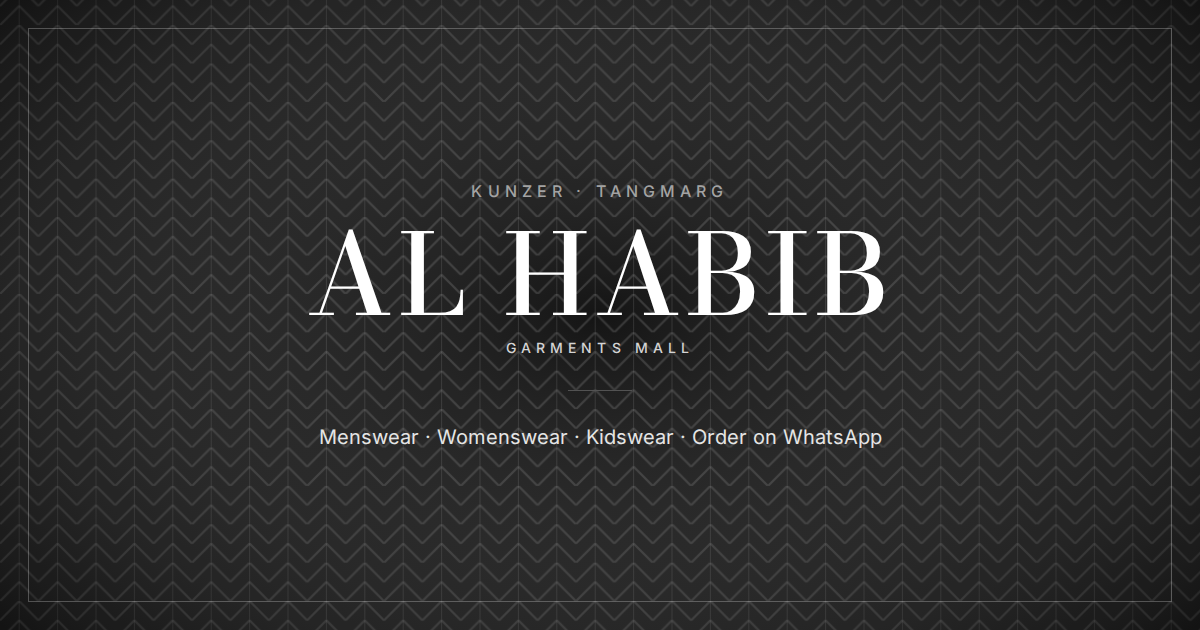
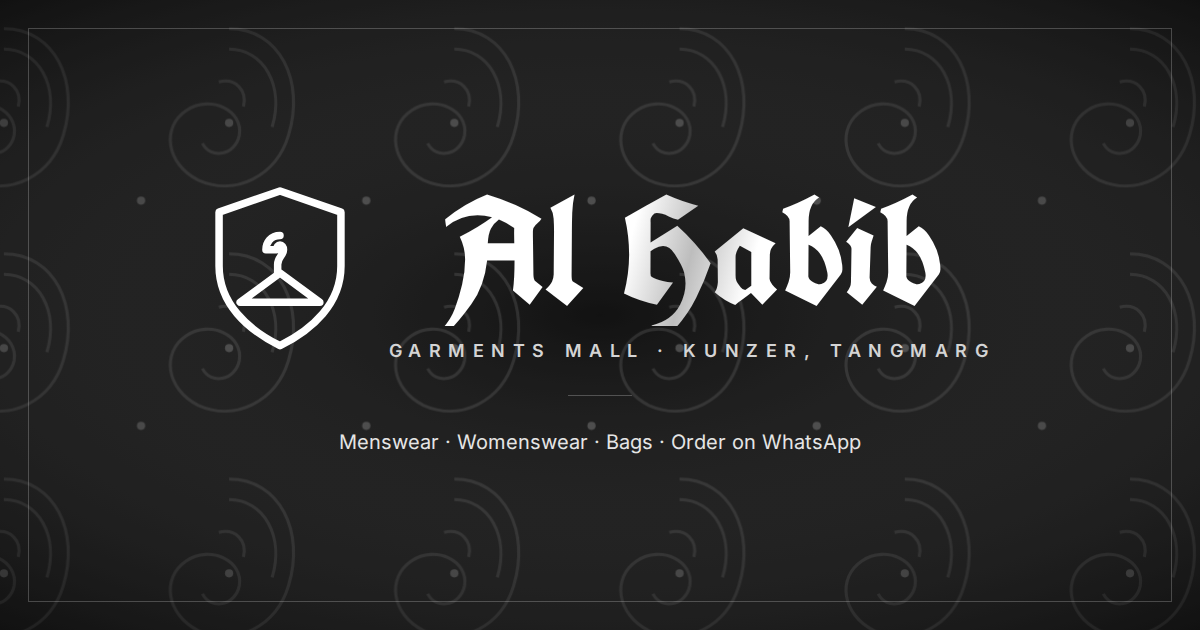
Brand: shield-and-hanger emblem with a blackletter Al Habib wordmark
Fraktur wordmark (UnifrakturCook) beside a monochrome shield-and-hanger
emblem, with the silver sheen capped so letters never wash out. Footer,
preloader, admin sidebar, favicon, touch icon and share image follow.

Claude-Session: https://claude.ai/code/session_013LEDe4nKw58QeEAj4Zvfg2

diff --git a/src/components/store/Logo.jsx b/src/components/store/Logo.jsx
@@ -1,13 +1,18 @@
 import React from "react";
 import { Link } from "react-router-dom";
+import BrandMark from "./BrandMark";
 
-// Brand wordmark: bold Bodoni "AL HABIB" over a tracked "GARMENTS MALL". `inverse` for dark surfaces.
-export default function Logo({ className = "", inverse = false, compact = false, to = "/" }) {
+// Brand lockup: shield-and-hanger emblem, blackletter "Al Habib" with a slow silver sheen,
+// and a tracked "GARMENTS MALL". `inverse` for dark surfaces, `compact` for tight spots.
+export default function Logo({ className = "", inverse = false, compact = false, to = "/", mark = true }) {
   const subCls = inverse ? "text-neutral-400" : "text-neutral-500";
   return (
-    <Link to={to} className={`inline-flex flex-col leading-none ${inverse ? "text-paper" : "text-ink"} ${className}`} aria-label="Al Habib Garments Mall, home">
-      <span className={`wordmark-shine font-display font-bold tracking-[0.07em] ${inverse ? "wordmark-shine-inverse" : ""} ${compact ? "text-2xl" : "text-[28px] sm:text-[34px] lg:text-[42px]"}`}>AL HABIB</span>
-      <span className={`mt-1 font-semibold uppercase ${compact ? "text-[8px] tracking-[0.3em]" : "text-[9px] tracking-[0.36em] sm:text-[10px] lg:mt-1.5 lg:text-[11px]"} ${subCls}`}>Garments Mall</span>
+    <Link to={to} className={`inline-flex items-center gap-3 leading-none sm:gap-3.5 ${inverse ? "text-paper" : "text-ink"} ${className}`} aria-label="Al Habib Garments Mall, home">
+      {mark && <BrandMark className={compact ? "h-8 w-8" : "h-10 w-10 sm:h-12 sm:w-12 lg:h-16 lg:w-16"} />}
+      <span className="flex flex-col">
+        <span className={`wordmark-shine font-brand font-bold tracking-[0.01em] ${inverse ? "wordmark-shine-inverse" : ""} ${compact ? "text-[26px]" : "text-[30px] sm:text-[36px] lg:text-[50px]"}`}>Al Habib</span>
+        <span className={`font-semibold uppercase ${compact ? "mt-0.5 text-[8px] tracking-[0.3em]" : "mt-1 text-[9px] tracking-[0.36em] sm:text-[10px] lg:text-[11px]"} ${subCls}`}>Garments Mall</span>
+      </span>
     </Link>
   );
 }

diff --git a/src/components/admin/AdminLayout.jsx b/src/components/admin/AdminLayout.jsx
@@ -41,7 +41,7 @@ export default function AdminLayout() {
       <aside className="hidden border-r border-neutral-800 lg:flex lg:min-h-screen lg:flex-col lg:sticky lg:top-0 lg:h-screen">
         <div className="px-6 py-6">
           <Link to="/admin/dashboard" className="block leading-none">
-            <span className="font-display text-xl tracking-[0.04em]">AL HABIB</span>
+            <span className="font-brand text-2xl">Al Habib</span>
             <span className="mt-1 block text-[9px] font-medium uppercase tracking-[0.32em] text-neutral-500">Admin</span>
           </Link>
         </div>
@@ -75,7 +75,7 @@ export default function AdminLayout() {
             <button type="button" className="absolute inset-0 bg-black/60" aria-label="Close" onClick={() => setOpen(false)} />
             <div className="absolute left-0 top-0 flex h-full w-72 flex-col bg-ink py-4">
               <div className="flex items-center justify-between px-6 pb-4">
-                <span className="font-display text-lg tracking-[0.04em]">AL HABIB</span>
+                <span className="font-brand text-xl">Al Habib</span>
                 <button type="button" onClick={() => setOpen(false)} className="p-1" aria-label="Close">
                   <X className="h-5 w-5" />
                 </button>

diff --git a/src/components/store/Preloader.jsx b/src/components/store/Preloader.jsx
@@ -30,8 +30,8 @@ export default function Preloader() {
       {show && (
         <motion.div className="fixed inset-0 z-[100] flex items-center justify-center bg-ink text-paper" initial={{ opacity: 1 }} exit={{ opacity: 0 }} transition={{ duration: 0.5, ease: "easeInOut" }} aria-hidden="true">
           <div className="overflow-hidden text-center">
-            <motion.p className="font-display text-4xl tracking-[0.06em] sm:text-5xl" initial={{ y: "110%" }} animate={{ y: 0 }} transition={{ duration: 0.7, ease: [0.22, 1, 0.36, 1] }}>
-              AL HABIB
+            <motion.p className="font-brand text-5xl sm:text-6xl" initial={{ y: "110%" }} animate={{ y: 0 }} transition={{ duration: 0.7, ease: [0.22, 1, 0.36, 1] }}>
+              Al Habib
             </motion.p>
             <motion.p className="mt-2 text-[10px] font-medium uppercase tracking-[0.4em] text-neutral-400" initial={{ opacity: 0 }} animate={{ opacity: 1 }} transition={{ delay: 0.4, duration: 0.5 }}>
               Garments Mall

diff --git a/src/components/store/Footer.jsx b/src/components/store/Footer.jsx
@@ -4,6 +4,7 @@ import { MapPin, Clock } from "lucide-react";
 import { InstagramIcon, FacebookIcon } from "../ui/SocialIcons";
 import { useShop } from "../../context/ShopContext";
 import WhatsAppIcon from "../ui/WhatsAppIcon";
+import Logo from "./Logo";
 import { waLink } from "../../lib/whatsapp";
 
 export default function Footer() {
@@ -14,8 +15,7 @@ export default function Footer() {
     <footer className="mt-20 bg-ink text-paper">
       <div className="container grid gap-12 py-16 md:grid-cols-12">
         <div className="md:col-span-5">
-          <p className="font-display text-3xl tracking-[0.04em]">AL HABIB</p>
-          <p className="mt-1 text-[10px] font-medium uppercase tracking-[0.32em] text-neutral-400">Garments Mall</p>
+          <Logo inverse />
           <p className="mt-6 max-w-sm text-sm leading-relaxed text-neutral-400">{settings.about?.split(". ").slice(0, 2).join(". ")}.</p>
           <div className="mt-6 flex items-center gap-4">
             {ig && (

diff --git a/src/components/store/BrandMark.jsx b/src/components/store/BrandMark.jsx
@@ -1,0 +1,12 @@
+import React from "react";
+
+// Shield-and-hanger emblem. Inherits colour from `currentColor`.
+export default function BrandMark({ className = "h-10 w-10" }) {
+  return (
+    <svg viewBox="0 0 64 72" className={className} fill="none" stroke="currentColor" strokeWidth="3.2" strokeLinejoin="round" strokeLinecap="round" aria-hidden="true">
+      <path d="M32 3 L58 12 V35 C58 51 46 62 32 69 C18 62 6 51 6 35 V12 Z" />
+      <path d="M32 22 c-4 0 -6 3 -6 6 h4.5 c0-1.2 0.7-2 1.5-2 s1.5 0.8 1.5 2 c0 2.5-2.5 3.2-2.5 6.3 V38" />
+      <path d="M32 38 L15 50.5 H49 Z" />
+    </svg>
+  );
+}

diff --git a/src/index.css b/src/index.css
@@ -103,7 +103,7 @@
     color: transparent;
     -webkit-background-clip: text;
     background-clip: text;
-    background-image: linear-gradient(105deg, #0a0a0a 0%, #0a0a0a 42%, #9a9a9a 47%, #ffffff 50%, #9a9a9a 53%, #0a0a0a 58%, #0a0a0a 100%);
+    background-image: linear-gradient(105deg, #0a0a0a 0%, #0a0a0a 42%, #8a8a8a 47%, #c9c9c9 50%, #8a8a8a 53%, #0a0a0a 58%, #0a0a0a 100%);
     background-size: 260% 100%;
     background-position: 140% 0;
     animation: wordmark-shine 7.5s ease-in-out infinite;

diff --git a/tailwind.config.js b/tailwind.config.js
@@ -18,6 +18,7 @@ export default {
       fontFamily: {
         sans: ["'Inter Variable'", "Inter", "system-ui", "-apple-system", "Segoe UI", "Roboto", "sans-serif"],
         display: ["'Bodoni Moda Variable'", "'Bodoni Moda'", "Didot", "'Times New Roman'", "serif"],
+        brand: ["'UnifrakturCook'", "'Old English Text MT'", "serif"],
       },
       letterSpacing: {
         micro: "0.18em",

diff --git a/src/components/admin/config/AnnouncementSection.jsx b/src/components/admin/config/AnnouncementSection.jsx
@@ -15,7 +15,7 @@ function BarPreview({ text, enabled }) {
         </p>
       </div>
       <div className="flex h-12 items-center justify-center border-b border-line">
-        <span className="font-display text-base tracking-[0.04em] text-ink">AL HABIB</span>
+        <span className="font-brand text-lg text-ink">Al Habib</span>
       </div>
     </div>
   );

diff --git a/src/main.jsx b/src/main.jsx
@@ -6,6 +6,7 @@ import { ShopProvider } from "./context/ShopContext";
 import { AdminProvider } from "./context/AdminContext";
 import "@fontsource-variable/inter";
 import "@fontsource-variable/bodoni-moda";
+import "@fontsource/unifrakturcook/700.css";
 import "./index.css";
 
 ReactDOM.createRoot(document.getElementById("root")).render(
